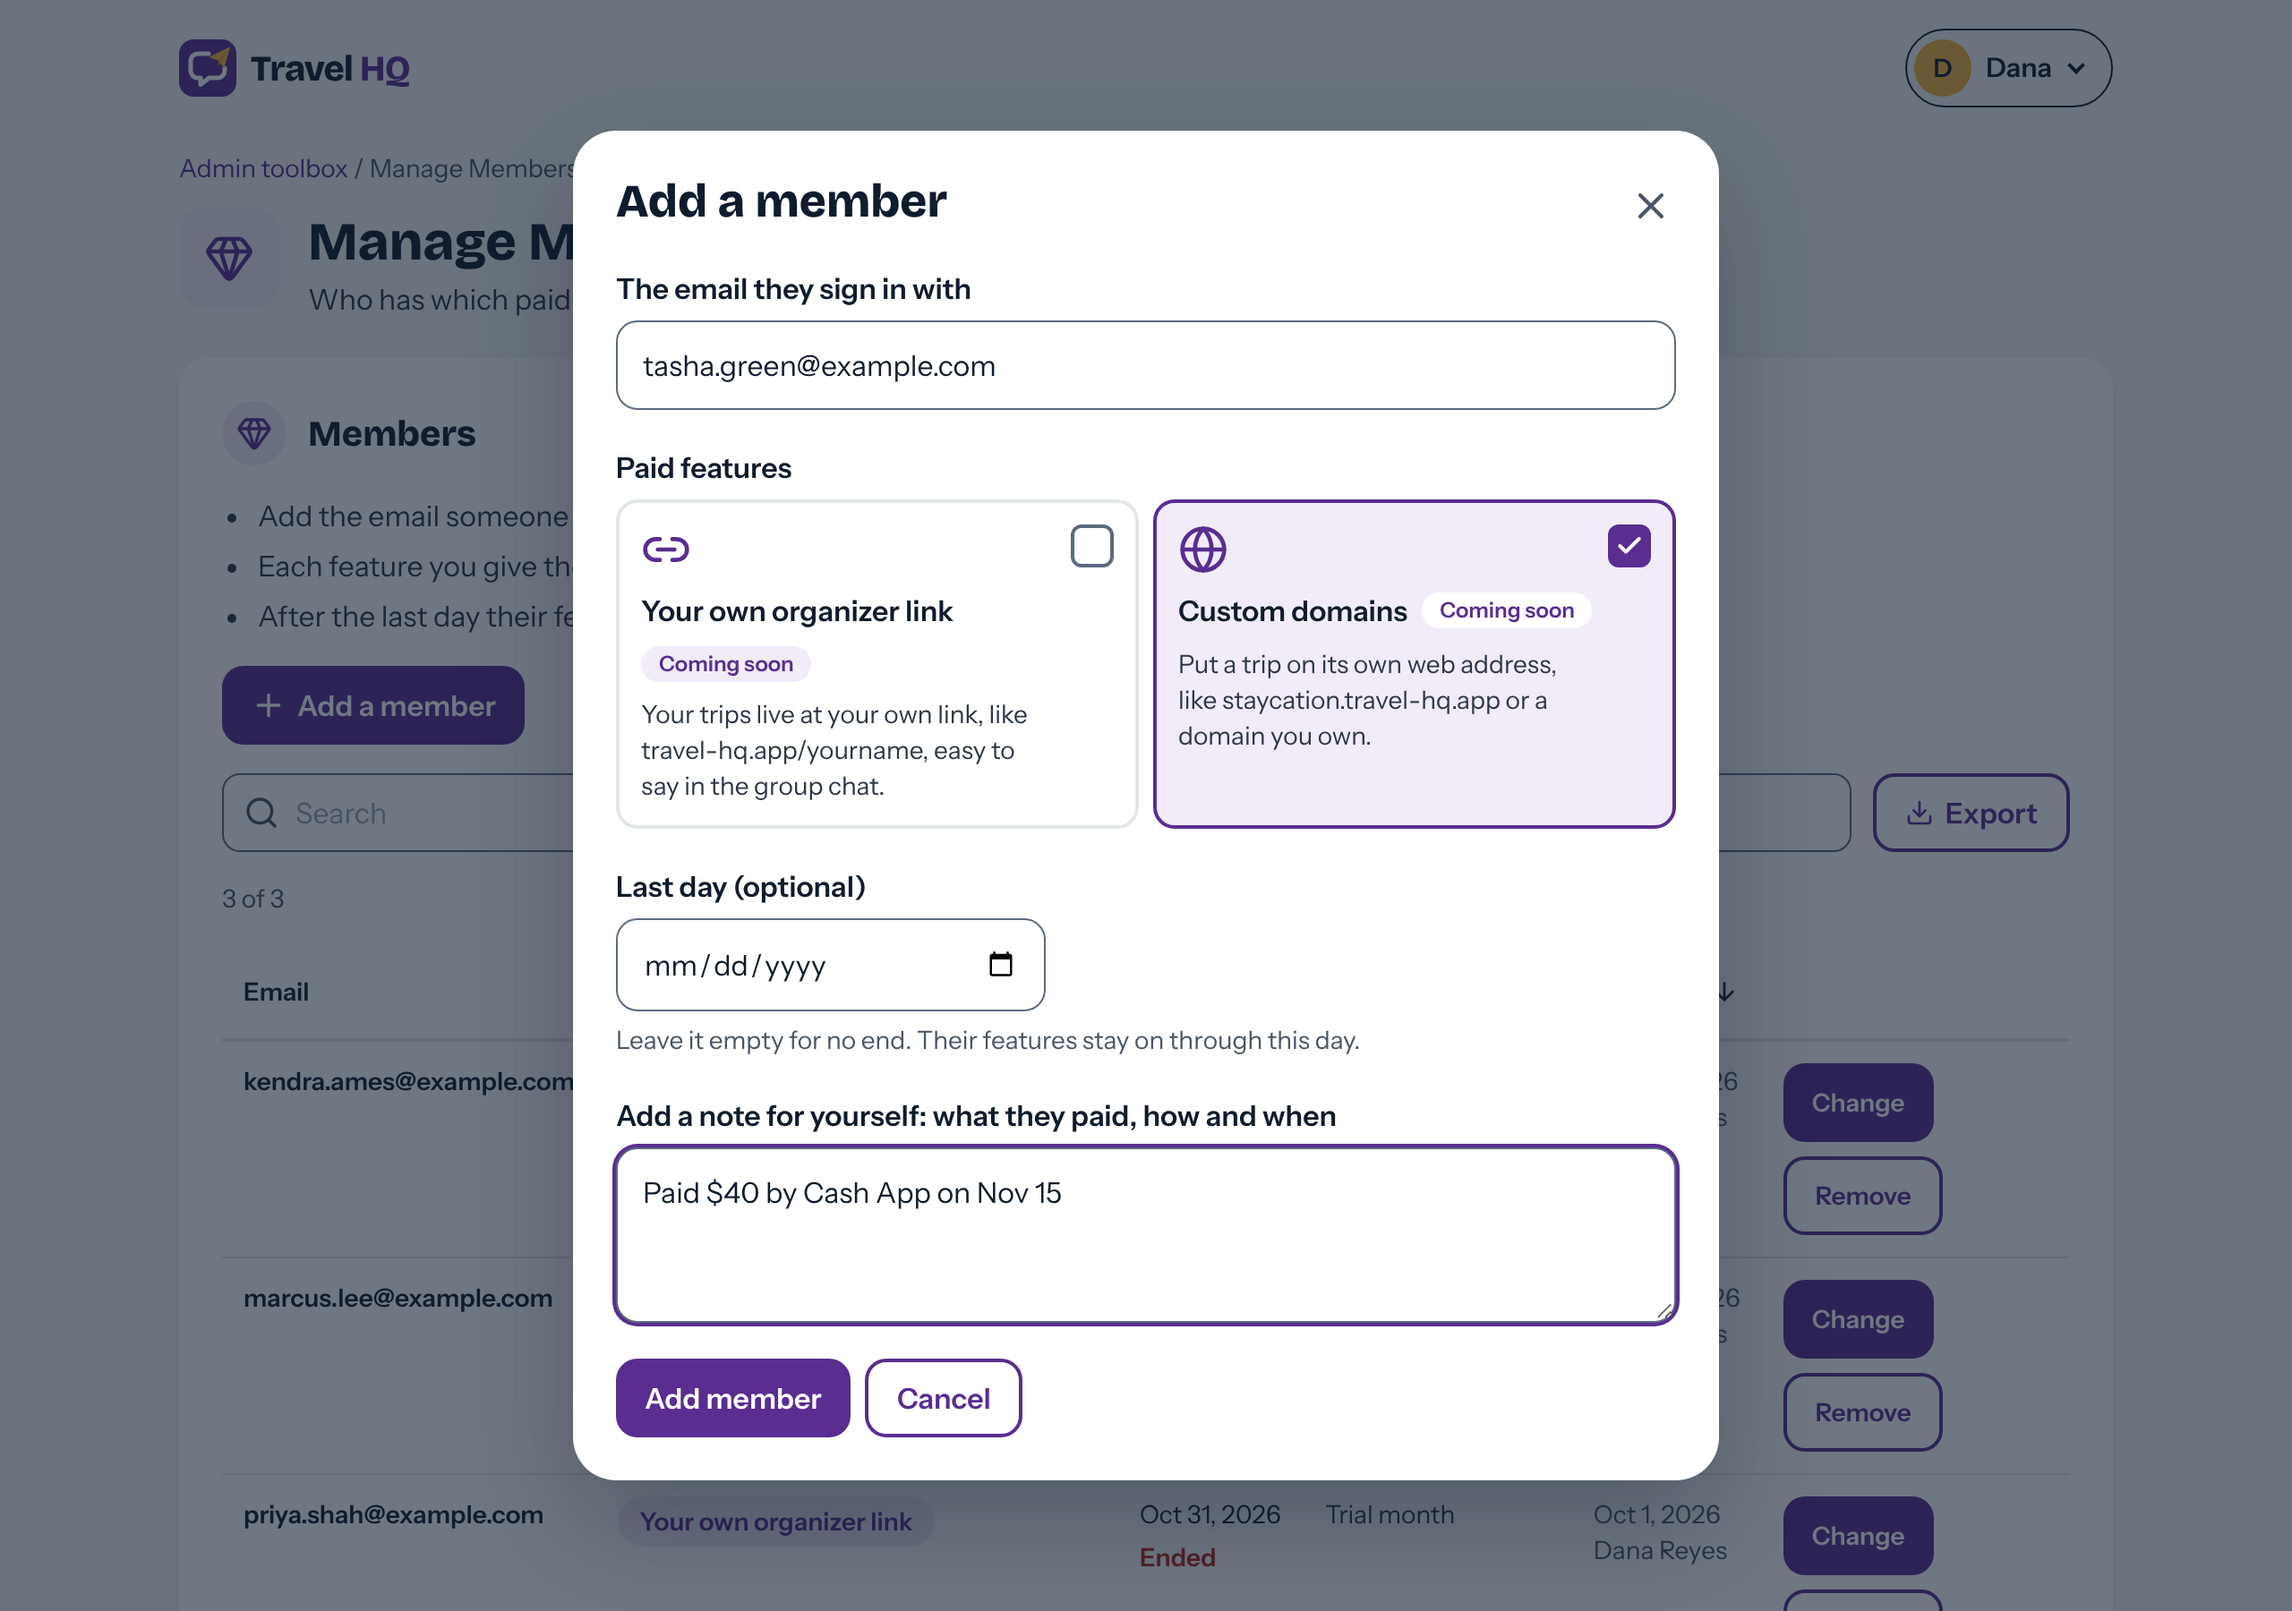
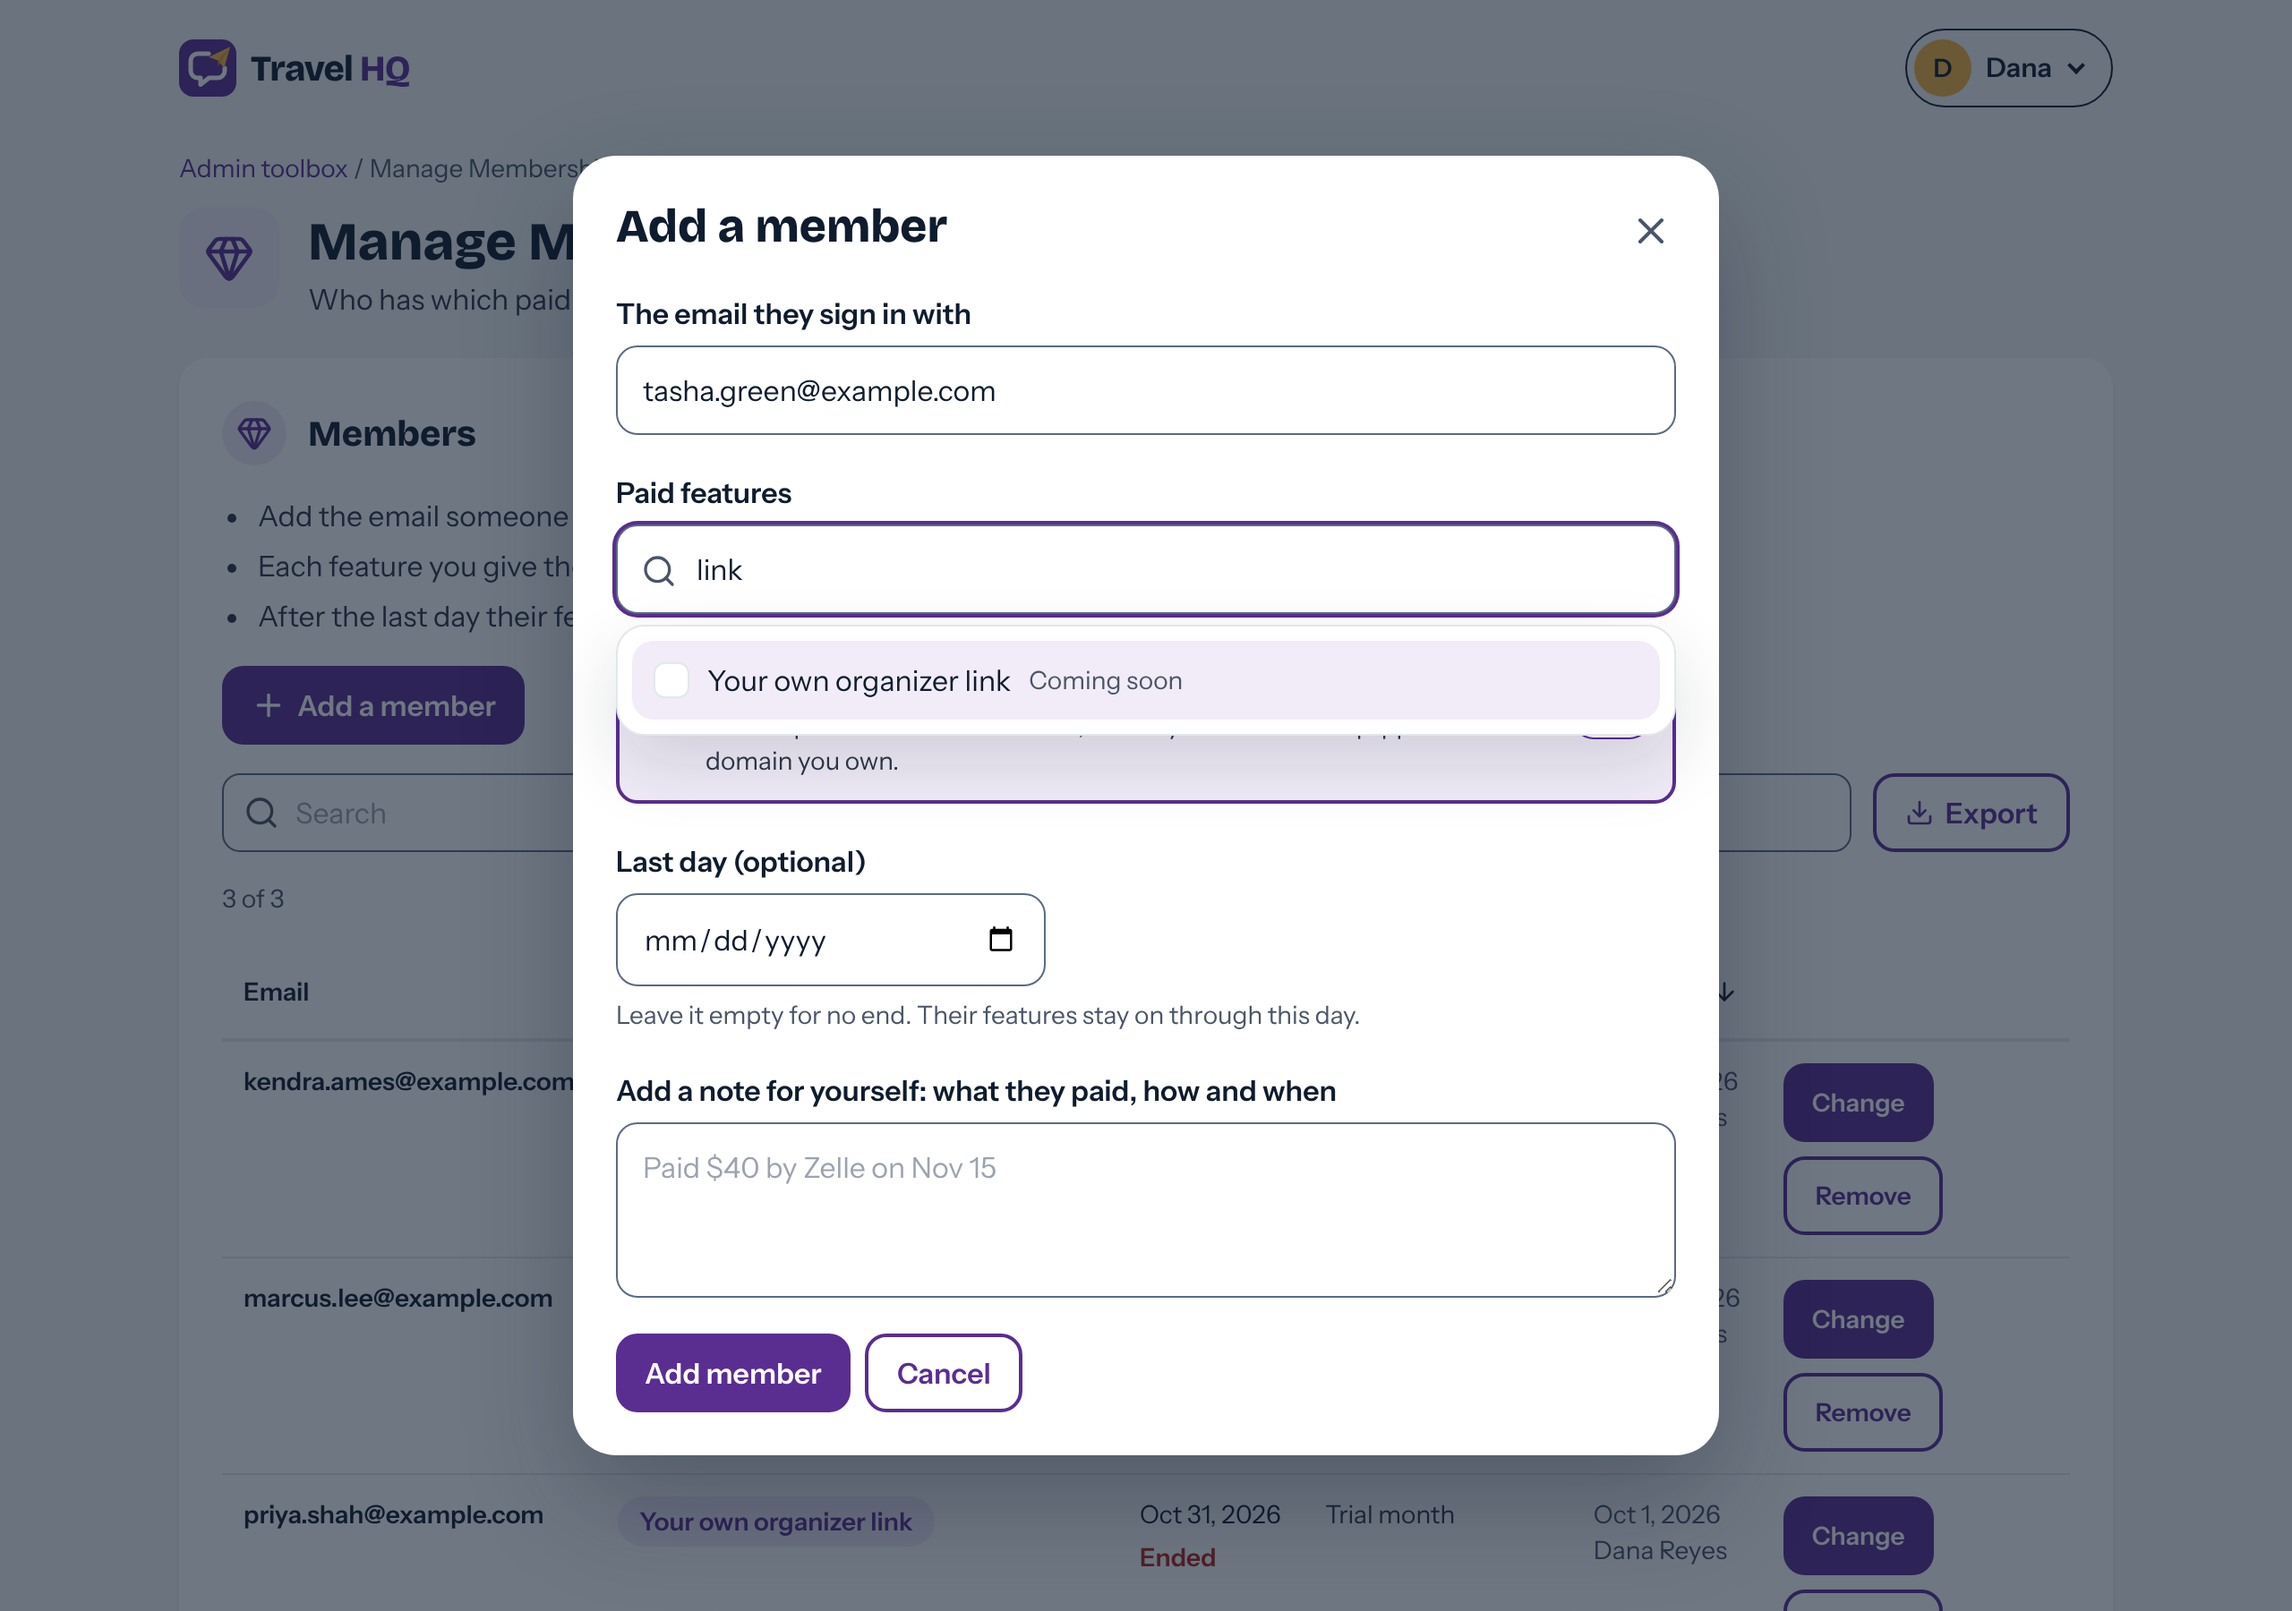
[Platform] Search box to add paid features; picked features show as tiles
In Add a member / Change, the admin searches features and ticks them in
the list; each picked feature shows below as a tile with a remove button.
No help answers changed.

Refs #90

Changed region(s): [[0.25, 0.28, 0.75, 0.7467], [0.25, 0.0622, 0.75, 0.2489], [0.25, 0.8089, 0.75, 0.9333]]

diff --git a/apps/web/src/pages/AdminMembershipsPage.tsx b/apps/web/src/pages/AdminMembershipsPage.tsx
@@ -5,8 +5,8 @@ import {
   type MembershipInput,
   type PaidFeature,
 } from '@cc/types'
-import { Check, Gem, Globe, Link2, Plus, type LucideIcon } from 'lucide-react'
-import { useEffect, useState, type FormEvent } from 'react'
+import { Check, Gem, Globe, Link2, Plus, Search, X, type LucideIcon } from 'lucide-react'
+import { useEffect, useId, useState, type FormEvent, type KeyboardEvent } from 'react'
 import { AdminGrid, type GridColumn } from '@/components/AdminGrid'
 import { ConfirmDialog } from '@/components/ConfirmDialog'
 import { Dialog } from '@/components/Dialog'
@@ -320,52 +320,11 @@ function MemberDialog({
           {touched.email && emailProblem && <span className={problemText}>{emailProblem}</span>}
         </label>
 
-        <fieldset className="flex flex-col gap-2">
-          <legend className="mb-1.5 font-semibold text-ink">Paid features</legend>
-          {/* Tiles like the trip editor's pricing choices, with a tick box, since several can be on. */}
-          <div className="grid gap-2 sm:grid-cols-2">
-            {PAID_FEATURES.map((f) => {
-              const on = features.includes(f.key)
-              const Art = FEATURE_ART[f.key]
-              return (
-                <button
-                  key={f.key}
-                  type="button"
-                  role="checkbox"
-                  aria-checked={on}
-                  onClick={() => toggle(f.key, !on)}
-                  className={`relative flex min-h-[44px] flex-col items-start gap-2 rounded-xl border-2 p-3 pr-11 text-left ${
-                    on ? 'border-royal bg-royal-pale' : 'border-rule bg-white hover:border-royal'
-                  }`}
-                >
-                  <span
-                    aria-hidden="true"
-                    className={`absolute right-3 top-3 grid h-6 w-6 place-items-center rounded-md border-2 ${
-                      on ? 'border-royal bg-royal text-white' : 'border-[#5B6B80] bg-white'
-                    }`}
-                  >
-                    {on && <Check className="h-4 w-4" strokeWidth={3} />}
-                  </span>
-                  <Art className="h-7 w-7 text-royal" aria-hidden="true" />
-                  <span className="flex flex-wrap items-center gap-2 font-semibold text-ink">
-                    {f.title}
-                    {!f.built && (
-                      <span
-                        className={`rounded-full px-2.5 py-0.5 text-xs font-semibold text-royal ${on ? 'bg-white' : 'bg-royal-pale'}`}
-                      >
-                        Coming soon
-                      </span>
-                    )}
-                  </span>
-                  <span className="text-sm text-body">{f.text}</span>
-                </button>
-              )
-            })}
-          </div>
-          {touched.features && featuresProblem && (
-            <span className={problemText}>{featuresProblem}</span>
-          )}
-        </fieldset>
+        <FeaturePicker
+          features={features}
+          onToggle={toggle}
+          problem={touched.features ? featuresProblem : null}
+        />
 
         <label className="flex flex-col gap-1.5 font-semibold text-ink">
           Last day (optional)
@@ -407,5 +366,155 @@ function MemberDialog({
         </div>
       </form>
     </Dialog>
+  )
+}
+
+/**
+ * Picking features (owner's ask, 2026-11-15): a search box that lists the matching features with tick boxes, and the
+ * ticked ones below as tiles, each with Remove.
+ */
+function FeaturePicker({
+  features,
+  onToggle,
+  problem,
+}: {
+  features: PaidFeature[]
+  onToggle: (k: PaidFeature, on: boolean) => void
+  problem: string | null
+}) {
+  const [query, setQuery] = useState('')
+  const [open, setOpen] = useState(false)
+  const [active, setActive] = useState(0)
+  const uid = useId()
+  const words = query.trim().toLowerCase().split(/\s+/).filter(Boolean)
+  const found = PAID_FEATURES.filter((f) =>
+    words.every((w) => `${f.title} ${f.text}`.toLowerCase().includes(w))
+  )
+  const picked = PAID_FEATURES.filter((f) => features.includes(f.key))
+
+  function onKey(e: KeyboardEvent) {
+    if (e.key === 'ArrowDown') {
+      setOpen(true)
+      setActive((i) => Math.min(found.length - 1, i + 1))
+    } else if (e.key === 'ArrowUp') setActive((i) => Math.max(0, i - 1))
+    else if (e.key === 'Enter' && open && found[active]) {
+      const k = found[active].key
+      onToggle(k, !features.includes(k))
+    } else return
+    e.preventDefault()
+  }
+
+  return (
+    <div className="flex flex-col gap-3">
+      <div
+        className="relative"
+        onBlur={(e) => {
+          if (!e.currentTarget.contains(e.relatedTarget as Node | null)) setOpen(false)
+        }}
+      >
+        <label htmlFor={`${uid}-search`} className="mb-1.5 block font-semibold text-ink">
+          Paid features
+        </label>
+        <Search
+          className="pointer-events-none absolute bottom-[14px] left-3.5 h-5 w-5 text-muted"
+          aria-hidden="true"
+        />
+        <input
+          id={`${uid}-search`}
+          type="text"
+          role="combobox"
+          aria-expanded={open}
+          aria-controls={`${uid}-list`}
+          aria-activedescendant={open && found[active] ? `${uid}-${active}` : undefined}
+          autoComplete="off"
+          value={query}
+          placeholder="Search features to add"
+          onFocus={() => setOpen(true)}
+          onClick={() => setOpen(true)}
+          onChange={(e) => {
+            setQuery(e.target.value)
+            setActive(0)
+            setOpen(true)
+          }}
+          onKeyDown={onKey}
+          className={`${field} pl-11`}
+        />
+        {open && (
+          <ul
+            id={`${uid}-list`}
+            role="listbox"
+            aria-multiselectable="true"
+            aria-label="Paid features"
+            className="absolute left-0 top-[calc(100%+6px)] z-20 w-full rounded-2xl border border-rule bg-white p-2 shadow-[0_16px_40px_rgba(15,28,46,0.14)]"
+          >
+            {found.length === 0 && <li className="px-3 py-2.5 text-body">No feature matches.</li>}
+            {found.map((f, i) => {
+              const on = features.includes(f.key)
+              return (
+                <li
+                  key={f.key}
+                  id={`${uid}-${i}`}
+                  role="option"
+                  aria-selected={on}
+                  // Keeps the focus in the search box, so the list stays open while ticking.
+                  onMouseDown={(e) => e.preventDefault()}
+                  onClick={() => onToggle(f.key, !on)}
+                  onPointerEnter={() => setActive(i)}
+                  className={`flex min-h-[44px] cursor-pointer items-center gap-2.5 rounded-xl px-3 ${
+                    i === active ? 'bg-royal-pale' : ''
+                  }`}
+                >
+                  <span
+                    className={`flex h-5 w-5 shrink-0 items-center justify-center rounded-md border ${
+                      on ? 'border-royal bg-royal text-white' : 'border-rule bg-white'
+                    }`}
+                    aria-hidden="true"
+                  >
+                    {on && <Check className="h-3.5 w-3.5" />}
+                  </span>
+                  <span className="text-ink">{f.title}</span>
+                  {!f.built && <span className="text-sm text-muted">Coming soon</span>}
+                </li>
+              )
+            })}
+          </ul>
+        )}
+      </div>
+      {problem && <span className={problemText}>{problem}</span>}
+      {picked.length > 0 && (
+        <ul className="flex flex-col gap-2" aria-label="Their features">
+          {picked.map((f) => {
+            const Art = FEATURE_ART[f.key]
+            return (
+              <li
+                key={f.key}
+                className="flex items-start gap-3 rounded-xl border-2 border-royal bg-royal-pale p-3"
+              >
+                <Art className="mt-0.5 h-6 w-6 shrink-0 text-royal" aria-hidden="true" />
+                <span className="flex min-w-0 flex-1 flex-col gap-0.5">
+                  <span className="flex flex-wrap items-center gap-2 font-semibold text-ink">
+                    {f.title}
+                    {!f.built && (
+                      <span className="rounded-full bg-white px-2.5 py-0.5 text-xs font-semibold text-royal">
+                        Coming soon
+                      </span>
+                    )}
+                  </span>
+                  <span className="text-sm text-body">{f.text}</span>
+                </span>
+                <button
+                  type="button"
+                  onClick={() => onToggle(f.key, false)}
+                  aria-label={`Remove ${f.title}`}
+                  className="inline-flex min-h-[44px] min-w-[44px] shrink-0 items-center justify-center rounded-xl border border-royal bg-white text-royal hover:bg-royal-pale"
+                >
+                  <X className="h-5 w-5" aria-hidden="true" />
+                </button>
+              </li>
+            )
+          })}
+        </ul>
+      )}
+    </div>
   )
 }
